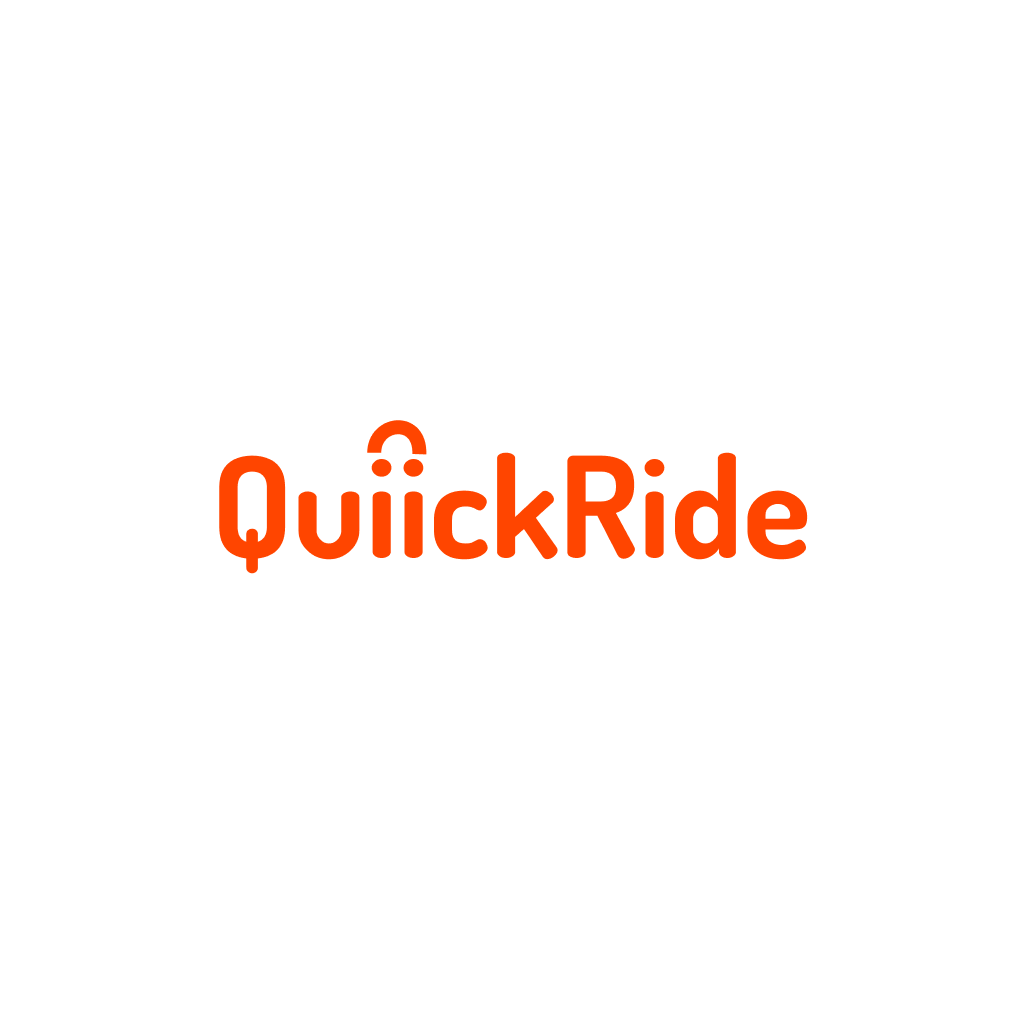
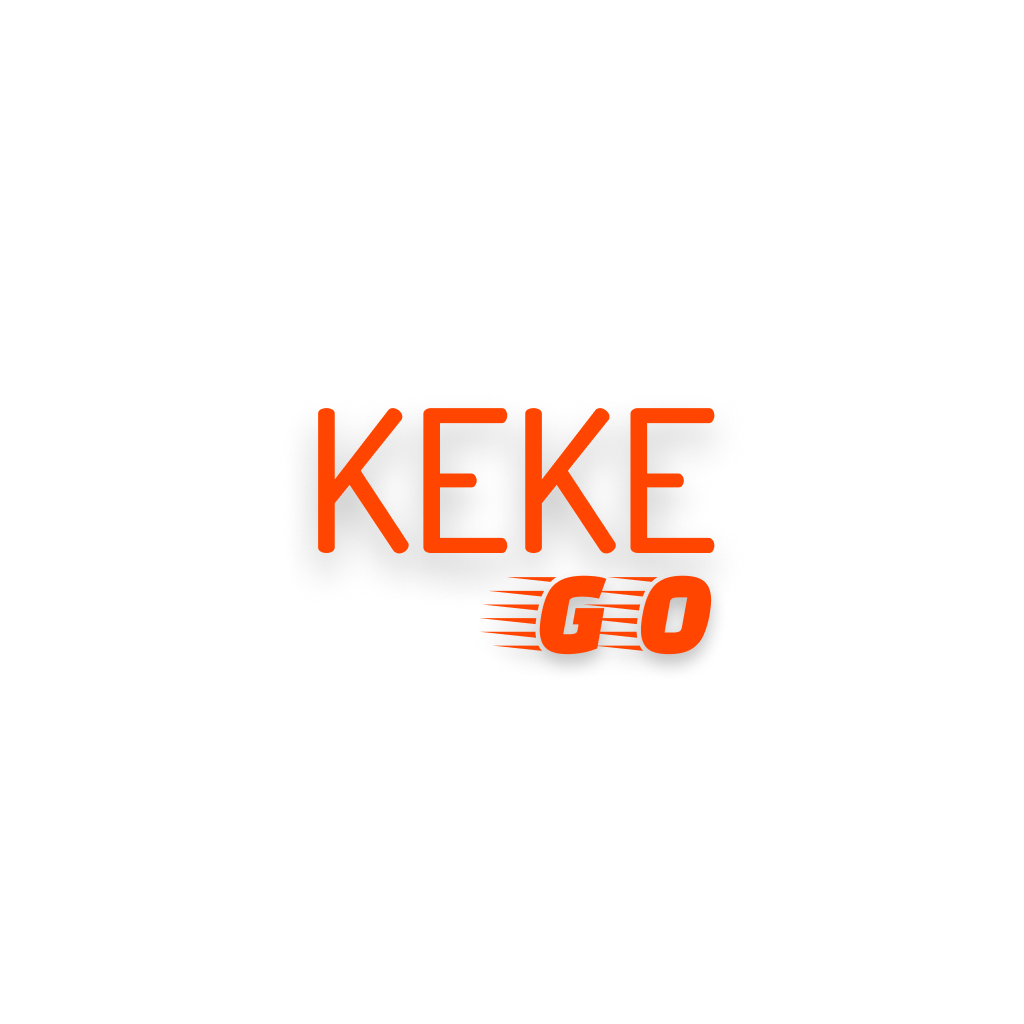
KEKE GO

Changed region(s): [[0.1875, 0.375, 0.8125, 0.6562]]

diff --git a/assets/svg/index.tsx b/assets/svg/index.tsx
@@ -179,21 +179,20 @@ export const OnboardingCoinIcon = ({ color }: { color?: string }) => (
 );
 
 export const LogoIcon = ({ color }: { color?: string }) => (
-  <Svg
-    width="100%"
-    height="100%"
-    viewBox="0 0 756 204" // Adjust this to match your SVG's original size
-    fill="none"
-  >
-    <Path
-      fill="#FF4500"
-      d="M50.742 197.771c-1.886 0-3.595-.648-5.127-1.945-1.533-1.179-2.299-3.005-2.299-5.48V179.03c-6.482-.707-12.317-2.533-17.503-5.48-5.186-2.947-9.252-7.249-12.2-12.907-2.946-5.657-4.42-12.906-4.42-21.746V89.923c0-10.019 1.828-17.975 5.482-23.868 3.771-5.893 8.78-10.136 15.028-12.73 6.247-2.71 13.26-4.066 21.039-4.066 7.78 0 14.792 1.356 21.039 4.067 6.365 2.593 11.374 6.836 15.028 12.73 3.654 5.892 5.48 13.849 5.48 23.867v48.974c0 8.84-1.472 16.089-4.42 21.746-2.946 5.658-7.012 9.96-12.198 12.907-5.187 2.947-11.08 4.773-17.68 5.48v11.316c0 2.475-.767 4.301-2.299 5.48-1.414 1.297-3.064 1.945-4.95 1.945Zm-7.426-39.78v-9.37c0-2.475.766-4.243 2.299-5.304 1.532-1.179 3.241-1.768 5.127-1.768 1.886 0 3.536.589 4.95 1.768 1.532 1.061 2.299 2.829 2.299 5.304v9.37c3.536-1.179 6.305-3.3 8.31-6.365 2.003-3.182 3.005-7.425 3.005-12.729V89.923c0-6.954-1.65-12.081-4.95-15.381-3.3-3.418-7.839-5.128-13.614-5.128-5.776 0-10.313 1.71-13.614 5.128-3.182 3.3-4.773 8.427-4.773 15.381v48.974c0 5.304.943 9.547 2.828 12.729 1.886 3.065 4.597 5.186 8.133 6.365Zm104.532 22.1c-7.072 0-13.555-1.65-19.448-4.95-5.775-3.418-10.432-7.838-13.968-13.26-3.418-5.54-5.127-11.434-5.127-17.68v-42.432c0-1.768 1.12-3.418 3.359-4.95 2.358-1.533 5.069-2.299 8.133-2.299 3.065 0 5.717.766 7.956 2.298 2.24 1.533 3.359 3.183 3.359 4.951v42.432c0 2.71.708 5.245 2.122 7.602s3.3 4.362 5.658 6.011c2.357 1.533 4.95 2.299 7.779 2.299 2.947 0 5.54-.766 7.779-2.299 2.358-1.532 4.243-3.536 5.658-6.011 1.414-2.475 2.121-5.009 2.121-7.602v-42.609c0-1.886 1.12-3.536 3.359-4.95 2.358-1.415 5.01-2.122 7.956-2.122 3.419 0 6.188.707 8.31 2.122 2.122 1.414 3.182 3.064 3.182 4.95v42.609c0 6.365-1.768 12.317-5.304 17.857-3.418 5.422-8.073 9.782-13.967 13.083-5.775 3.3-12.081 4.95-18.917 4.95Zm66.373-104.312c-3.418 0-6.365-1.12-8.84-3.359-2.476-2.357-3.713-4.95-3.713-7.78 0-3.064 1.237-5.657 3.713-7.778 2.475-2.24 5.422-3.36 8.84-3.36 3.536 0 6.483 1.12 8.84 3.36 2.358 2.121 3.536 4.714 3.536 7.779 0 2.829-1.178 5.422-3.536 7.779-2.357 2.24-5.304 3.36-8.84 3.36Zm0 102.721c-3.3 0-6.012-.766-8.133-2.298-2.122-1.533-3.183-3.241-3.183-5.128v-69.482c0-2.122 1.061-3.831 3.183-5.127 2.121-1.297 4.833-1.945 8.133-1.945 3.182 0 5.894.648 8.132 1.945 2.24 1.296 3.36 3.005 3.36 5.127v69.482c0 1.887-1.12 3.595-3.36 5.128-2.238 1.532-4.95 2.298-8.132 2.298ZM254.45 75.78c-3.418 0-6.365-1.12-8.84-3.36-2.475-2.357-3.713-4.95-3.713-7.78 0-3.064 1.238-5.657 3.713-7.778 2.475-2.24 5.422-3.36 8.84-3.36 3.536 0 6.482 1.12 8.84 3.36 2.357 2.121 3.536 4.714 3.536 7.779 0 2.829-1.179 5.422-3.536 7.779-2.358 2.24-5.304 3.36-8.84 3.36Zm0 102.72c-3.3 0-6.011-.766-8.133-2.298-2.121-1.533-3.182-3.241-3.182-5.128v-69.482c0-2.122 1.061-3.831 3.182-5.127 2.122-1.297 4.833-1.945 8.133-1.945 3.183 0 5.893.648 8.133 1.945 2.239 1.296 3.359 3.005 3.359 5.127v69.482c0 1.887-1.12 3.595-3.359 5.128-2.24 1.532-4.95 2.298-8.133 2.298Zm64.451 1.591c-8.958 0-16.266-1.591-21.924-4.773-5.657-3.183-9.842-7.485-12.552-12.907-2.712-5.539-4.067-11.727-4.067-18.564v-14.144c0-6.836 1.297-12.965 3.89-18.387 2.711-5.539 6.895-9.901 12.553-13.083 5.775-3.183 13.023-4.774 21.746-4.774 5.54 0 10.431.649 14.674 1.945 4.244 1.296 7.603 3.006 10.078 5.127 2.475 2.122 3.713 4.362 3.713 6.719 0 1.414-.413 3.005-1.238 4.773-.707 1.65-1.768 3.124-3.182 4.42-1.297 1.296-2.829 1.945-4.597 1.945-1.297 0-2.652-.412-4.066-1.238-1.297-.825-3.006-1.649-5.128-2.475-2.121-.825-4.95-1.237-8.486-1.237-6.011 0-10.372 1.473-13.083 4.42-2.712 2.828-4.067 6.777-4.067 11.845v14.144c0 5.069 1.355 9.076 4.067 12.023 2.711 2.828 7.131 4.243 13.26 4.243 3.653 0 6.482-.472 8.486-1.415 2.004-.942 3.654-1.826 4.951-2.652 1.414-.825 2.829-1.237 4.243-1.237 2.122 0 3.89.589 5.304 1.768 1.532 1.179 2.652 2.652 3.359 4.42.825 1.65 1.238 3.182 1.238 4.597 0 2.357-1.297 4.655-3.89 6.895-2.475 2.24-5.952 4.066-10.431 5.481-4.361 1.414-9.312 2.121-14.851 2.121Zm52.264-1.591c-3.182 0-5.834-.766-7.956-2.298-2.121-1.533-3.182-3.241-3.182-5.128V52.618c0-2.121 1.061-3.83 3.182-5.127 2.122-1.296 4.774-1.945 7.956-1.945 3.301 0 6.07.649 8.31 1.945 2.24 1.297 3.359 3.006 3.359 5.127v74.08l33.416-31.294c1.178-1.179 2.652-1.768 4.42-1.768 1.768 0 3.477.589 5.127 1.768 1.768 1.06 3.182 2.416 4.243 4.066 1.179 1.65 1.768 3.36 1.768 5.128 0 .707-.177 1.473-.531 2.298-.235.707-.707 1.356-1.414 1.945l-20.862 18.917 26.166 37.128c.825 1.297 1.238 2.534 1.238 3.713 0 1.768-.708 3.536-2.122 5.304a18.542 18.542 0 0 1-5.127 4.42c-2.004 1.061-3.948 1.591-5.834 1.591-2.358 0-4.244-1.002-5.658-3.005l-23.691-35.007-11.139 9.901v19.271c0 1.887-1.119 3.595-3.359 5.128-2.24 1.532-5.009 2.298-8.31 2.298Zm148.541.884c-1.531 0-3.064-.472-4.596-1.414-1.415-.943-2.534-2.299-3.36-4.067l-25.105-48.797h-14.851v45.968c0 2.476-1.179 4.362-3.536 5.658-2.357 1.179-5.009 1.768-7.956 1.768-2.829 0-5.481-.589-7.956-1.768-2.357-1.296-3.536-3.182-3.536-5.658V56.508c0-2.004.648-3.713 1.944-5.127 1.415-1.415 3.242-2.122 5.481-2.122h35.007c7.779 0 14.792 1.12 21.039 3.36 6.365 2.239 11.433 6.07 15.205 11.491 3.772 5.304 5.657 12.671 5.657 22.1 0 6.837-1.001 12.671-3.005 17.504-2.004 4.715-4.774 8.545-8.31 11.492-3.418 2.828-7.366 4.95-11.846 6.364l23.338 42.963c.236.472.413 1.002.53 1.591.119.472.177.884.177 1.238 0 1.886-.707 3.771-2.121 5.657-1.415 1.886-3.241 3.418-5.481 4.597-2.122 1.179-4.361 1.768-6.719 1.768Zm-47.912-72.311h19.448c5.775 0 10.372-1.415 13.79-4.243 3.419-2.829 5.127-7.662 5.127-14.498 0-7.072-1.708-11.963-5.127-14.674-3.418-2.83-8.015-4.244-13.79-4.244h-19.448v37.659Zm87.049-31.294c-3.418 0-6.365-1.12-8.84-3.359-2.475-2.357-3.713-4.95-3.713-7.78 0-3.064 1.238-5.657 3.713-7.778 2.475-2.24 5.422-3.36 8.84-3.36 3.536 0 6.483 1.12 8.84 3.36 2.357 2.121 3.536 4.714 3.536 7.779 0 2.829-1.179 5.422-3.536 7.779-2.357 2.24-5.304 3.36-8.84 3.36Zm0 102.721c-3.301 0-6.011-.766-8.133-2.298-2.121-1.533-3.182-3.241-3.182-5.128v-69.482c0-2.122 1.061-3.831 3.182-5.127 2.122-1.297 4.832-1.945 8.133-1.945 3.182 0 5.893.648 8.133 1.945 2.24 1.296 3.359 3.005 3.359 5.127v69.482c0 1.887-1.119 3.595-3.359 5.128-2.24 1.532-4.951 2.298-8.133 2.298Zm56.848 1.591c-5.54 0-10.667-1.709-15.382-5.127-4.715-3.418-8.486-7.897-11.315-13.437-2.829-5.539-4.243-11.433-4.243-17.68V129.35c0-6.601 1.414-12.612 4.243-18.034 2.829-5.422 6.6-9.724 11.315-12.906 4.715-3.301 9.96-4.95 15.736-4.95 5.539 0 10.254 1.414 14.144 4.242 3.889 2.711 6.777 5.776 8.663 9.194V52.618c0-2.121 1.119-3.83 3.359-5.127 2.24-1.296 5.009-1.945 8.31-1.945 3.182 0 5.834.649 7.956 1.945 2.121 1.297 3.182 3.006 3.182 5.127v118.456c0 1.887-1.061 3.595-3.182 5.128-2.122 1.532-4.774 2.298-7.956 2.298-2.829 0-5.246-.766-7.249-2.298-2.004-1.533-3.006-3.241-3.006-5.128v-4.95c-1.768 3.654-4.95 6.895-9.547 9.724-4.479 2.829-9.489 4.243-15.028 4.243Zm7.249-19.978c3.064 0 5.776-.826 8.133-2.475 2.357-1.768 4.243-3.655 5.657-5.658 1.415-2.122 2.122-3.771 2.122-4.95v-17.68c0-3.301-.826-6.13-2.475-8.487a15.817 15.817 0 0 0-6.012-5.481c-2.357-1.296-4.773-1.944-7.248-1.944-2.829 0-5.481.825-7.956 2.475-2.357 1.532-4.244 3.477-5.658 5.834a15.535 15.535 0 0 0-1.945 7.603v14.497c0 2.711.649 5.304 1.945 7.779a18.923 18.923 0 0 0 5.658 6.188c2.357 1.533 4.95 2.299 7.779 2.299Zm96.1 19.978c-8.368 0-15.794-1.473-22.277-4.42-6.365-3.064-11.374-7.307-15.028-12.729-3.653-5.54-5.481-11.905-5.481-19.095v-15.028c0-6.365 1.71-12.199 5.128-17.503 3.536-5.422 8.192-9.724 13.967-12.906 5.894-3.301 12.435-4.95 19.625-4.95 6.601 0 12.612 1.414 18.033 4.242 5.54 2.829 10.019 6.719 13.437 11.669 3.419 4.951 5.127 10.726 5.127 17.327 0 5.068-.824 8.721-2.475 10.961-1.65 2.122-3.772 3.478-6.365 4.067-2.475.471-5.068.707-7.779.707h-35.89v2.652c0 5.068 1.886 9.193 5.657 12.376 3.89 3.064 8.9 4.597 15.028 4.597 3.89 0 7.132-.589 9.724-1.768 2.593-1.179 4.833-2.299 6.718-3.36 1.887-1.06 3.655-1.591 5.305-1.591 1.768 0 3.3.589 4.596 1.768a12.108 12.108 0 0 1 3.006 4.243c.707 1.533 1.061 2.888 1.061 4.067 0 2.003-1.297 4.184-3.89 6.541-2.475 2.24-6.07 4.185-10.785 5.835-4.596 1.532-10.077 2.298-16.442 2.298Zm-19.978-51.095h25.812c2.005 0 3.36-.295 4.067-.884.825-.707 1.237-2.003 1.237-3.89 0-2.71-.766-5.127-2.298-7.248-1.415-2.122-3.3-3.772-5.658-4.951-2.239-1.179-4.773-1.768-7.602-1.768-2.711 0-5.245.589-7.602 1.768-2.358 1.061-4.302 2.652-5.835 4.774-1.414 2.003-2.121 4.42-2.121 7.249v4.95Z"
-    />
-    <Path
-      stroke="#FF4500"
-      strokeWidth={17}
-      d="M261.849 44.4c1.5-42.596-56.945-36.259-56.945-1.539"
-    />
+  <Svg viewBox="0 0 42 29" width="100%" height="100%" fill="none">
+    <G filter="url(#a)">
+      <Path
+        fill="#FF4500"
+        d="M4.14 18c-.17 0-.336-.04-.496-.12a.436.436 0 0 1-.222-.393V5.989c0-.17.074-.296.222-.376a1.097 1.097 0 0 1 .993 0c.148.08.222.205.222.376v5.663l4.603-5.954a.505.505 0 0 1 .427-.205c.126 0 .251.04.377.12.125.068.228.16.308.274.08.102.12.216.12.342a.793.793 0 0 1-.018.154.298.298 0 0 1-.085.154L7.1 10.9l4.054 6.159c.057.08.086.165.086.257 0 .125-.04.245-.12.359a.976.976 0 0 1-.308.257.844.844 0 0 1-.41.102.608.608 0 0 1-.514-.29l-3.747-5.63-1.283 1.591v3.782a.436.436 0 0 1-.222.393c-.149.08-.314.12-.496.12Zm9.021 0a.867.867 0 0 1-.444-.12.444.444 0 0 1-.206-.393V6.007c0-.172.069-.297.206-.377a.786.786 0 0 1 .444-.137h6.091c.183 0 .308.068.377.205a.838.838 0 0 1-.017.89.39.39 0 0 1-.36.205H13.95v4.346h2.668c.16 0 .28.063.36.188a.723.723 0 0 1 .017.821c-.069.126-.194.189-.377.189h-2.669V16.7h5.304c.16 0 .28.068.36.205.09.125.137.28.137.462 0 .148-.04.29-.12.428-.069.137-.194.205-.377.205h-6.09Zm8.857 0c-.17 0-.336-.04-.496-.12a.436.436 0 0 1-.222-.393V5.989c0-.17.074-.296.222-.376a1.097 1.097 0 0 1 .993 0c.148.08.222.205.222.376v5.663l4.603-5.954a.505.505 0 0 1 .427-.205c.126 0 .251.04.377.12a.89.89 0 0 1 .308.274c.08.102.12.216.12.342a.793.793 0 0 1-.018.154.298.298 0 0 1-.085.154l-3.49 4.363 4.054 6.159c.057.08.086.165.086.257 0 .125-.04.245-.12.359a.976.976 0 0 1-.308.257.844.844 0 0 1-.41.102.607.607 0 0 1-.514-.29l-3.747-5.63-1.283 1.591v3.782a.436.436 0 0 1-.222.393 1.03 1.03 0 0 1-.497.12Zm9.021 0a.867.867 0 0 1-.444-.12.444.444 0 0 1-.206-.393V6.007c0-.172.069-.297.206-.377a.786.786 0 0 1 .444-.137h6.091c.183 0 .308.068.377.205a.838.838 0 0 1-.017.89.39.39 0 0 1-.36.205h-5.304v4.346h2.67c.16 0 .279.063.359.188a.722.722 0 0 1 .017.821c-.069.126-.194.189-.377.189h-2.668V16.7h5.303c.16 0 .28.068.36.205.09.125.137.28.137.462 0 .148-.04.29-.12.428-.069.137-.194.205-.377.205h-6.09Z"
+      />
+    </G>
+    <G filter="url(#b)">
+      <Path
+        fill="#FF4500"
+        d="M24.974 26.289c-.893 0-1.519-.172-1.879-.516-.36-.352-.54-.876-.54-1.572 0-.188.012-.389.037-.601.024-.221.057-.455.098-.7.13-.753.323-1.38.577-1.88.254-.498.626-.871 1.117-1.117.492-.253 1.159-.38 2.002-.38.18 0 .393.008.639.024a6.5 6.5 0 0 1 .724.086c.238.041.422.094.553.16l-.627 1.707a7.154 7.154 0 0 0-1.461-.172c-.352 0-.618.029-.798.086-.18.049-.287.16-.32.331l-.515 2.825h.565c.172 0 .319-.02.442-.062.123-.04.2-.143.233-.307l.086-.479h-.503l.245-1.4h2.48l-.613 3.476c-.45.18-.9.307-1.351.38-.45.074-.847.111-1.191.111Zm-1.486-6.238-3.77-.405h4.273c-.196.114-.364.25-.503.405Zm-.774 1.265-4.641-.492h4.85c-.033.082-.07.164-.11.246a3.845 3.845 0 0 0-.099.246Zm-.331 1.203-4.802-.516h4.912l-.11.516Zm-.184 1.179-4.839-.516h4.9c-.008.09-.02.18-.037.27l-.024.246Zm.036 1.179-4.826-.516h4.777c0 .09.004.18.013.27.016.082.028.164.036.246Zm.528 1.13-4.285-.455h3.966c.041.082.086.164.135.246.058.073.119.143.184.209Zm10.933.282c-.892 0-1.518-.172-1.879-.516-.352-.352-.528-.876-.528-1.572 0-.188.012-.393.037-.614.025-.22.057-.45.098-.687.131-.753.324-1.38.578-1.88.253-.498.61-.871 1.068-1.117.458-.253 1.064-.38 1.817-.38.9 0 1.535.176 1.904.528.368.344.552.868.552 1.572 0 .18-.012.38-.037.601-.024.213-.057.438-.098.676-.13.745-.323 1.371-.577 1.879-.254.499-.614.875-1.08 1.13-.467.253-1.085.38-1.855.38Zm-1.474-6.238-3.77-.405h4.274c-.197.114-.364.25-.504.405Zm-.773 1.265-4.642-.492h4.85c-.032.082-.069.164-.11.246a3.848 3.848 0 0 0-.098.246Zm1.879 3.106h.724c.213 0 .385-.024.516-.073.14-.05.225-.18.258-.393l.466-2.567h-.749c-.196 0-.364.025-.503.074-.14.05-.225.176-.258.38l-.454 2.58Zm-2.21-1.903-4.802-.516h4.912l-.11.516Zm-.185 1.179-4.838-.516h4.9c-.009.09-.021.18-.037.27l-.025.246Zm.037 1.179-4.826-.516h4.777c0 .09.004.18.012.27.017.082.029.164.037.246Zm.528 1.13-4.286-.455h3.967c.04.082.086.164.135.246.057.073.119.143.184.209Z"
+      />
+    </G>
+    <Defs></Defs>
   </Svg>
 );
 
@@ -369,20 +368,6 @@ export const RatingStarIcon = ({ color }: { color?: string }) => (
     <Path
       fill={color ? color : "#FF4500"}
       d="m6 0 1.347 3.8h4.36L8.18 6.15l1.347 3.8L6 7.6 2.473 9.95l1.347-3.8L.294 3.8h4.359L6 0Z"
-    />
-  </Svg>
-);
-
-export const LogoLargeIcon = () => (
-  <Svg width={214} height={63} fill="none">
-    <Path
-      fill="#FF4500"
-      d="M14.293 56.428c-.532 0-1.013-.182-1.445-.548-.431-.332-.647-.846-.647-1.543v-3.188c-1.826-.199-3.47-.713-4.93-1.543-1.461-.83-2.606-2.042-3.436-3.636-.83-1.593-1.245-3.635-1.245-6.125V26.05c0-2.822.514-5.063 1.543-6.723 1.063-1.66 2.474-2.855 4.233-3.585 1.76-.764 3.735-1.146 5.927-1.146 2.19 0 4.166.382 5.926 1.146 1.793.73 3.204 1.925 4.233 3.585 1.029 1.66 1.544 3.901 1.544 6.723v13.795c0 2.49-.415 4.532-1.245 6.125-.83 1.594-1.976 2.806-3.437 3.636-1.46.83-3.12 1.344-4.98 1.543v3.188c0 .697-.215 1.211-.647 1.543a1.999 1.999 0 0 1-1.394.548ZM12.2 45.223v-2.64c0-.696.216-1.194.647-1.493a2.311 2.311 0 0 1 1.445-.498c.53 0 .996.166 1.394.498.432.299.647.797.647 1.494v2.64a4.363 4.363 0 0 0 2.341-1.794c.564-.896.847-2.091.847-3.585V26.05c0-1.959-.465-3.403-1.395-4.332-.93-.963-2.208-1.445-3.834-1.445-1.627 0-2.905.482-3.835 1.445-.896.93-1.345 2.373-1.345 4.332v13.795c0 1.494.266 2.689.797 3.585.531.864 1.295 1.461 2.291 1.793Zm29.444 6.225c-1.992 0-3.818-.465-5.478-1.394-1.627-.963-2.938-2.208-3.934-3.735-.963-1.56-1.444-3.22-1.444-4.98V29.387c0-.498.315-.963.946-1.395.664-.431 1.427-.647 2.29-.647.864 0 1.61.216 2.242.647.63.432.946.897.946 1.395v11.952c0 .763.199 1.477.597 2.141.399.664.93 1.229 1.594 1.693a3.938 3.938 0 0 0 2.191.648c.83 0 1.56-.216 2.191-.648a4.87 4.87 0 0 0 1.594-1.693c.398-.697.597-1.41.597-2.141V29.337c0-.531.316-.996.947-1.394.664-.399 1.41-.598 2.24-.598.963 0 1.744.2 2.341.598.598.398.897.863.897 1.394v12.002c0 1.793-.498 3.47-1.494 5.03-.963 1.527-2.275 2.755-3.934 3.685-1.627.93-3.403 1.394-5.33 1.394ZM60.34 22.066c-.962 0-1.792-.315-2.49-.946-.697-.664-1.045-1.394-1.045-2.191 0-.863.348-1.594 1.045-2.191.698-.631 1.528-.947 2.49-.947.996 0 1.826.316 2.49.947.665.597.997 1.328.997 2.19 0 .798-.332 1.528-.996 2.192-.665.63-1.495.946-2.49.946Zm0 28.934c-.93 0-1.693-.216-2.29-.647-.598-.432-.897-.913-.897-1.445V29.337c0-.598.3-1.079.897-1.444s1.36-.548 2.29-.548c.897 0 1.66.183 2.291.548.631.365.947.846.947 1.444v19.571c0 .532-.316 1.013-.947 1.445-.63.431-1.394.647-2.29.647Zm11.332-28.934c-.963 0-1.793-.315-2.49-.946-.697-.664-1.046-1.394-1.046-2.191 0-.863.349-1.594 1.046-2.191.697-.631 1.527-.947 2.49-.947.996 0 1.826.316 2.49.947.664.597.996 1.328.996 2.19 0 .798-.332 1.528-.996 2.192-.664.63-1.494.946-2.49.946Zm0 28.934c-.93 0-1.693-.216-2.29-.647-.599-.432-.897-.913-.897-1.445V29.337c0-.598.299-1.079.896-1.444.598-.365 1.361-.548 2.29-.548.897 0 1.66.183 2.292.548.63.365.946.846.946 1.444v19.571c0 .532-.316 1.013-.946 1.445-.631.431-1.395.647-2.291.647Zm18.154.448c-2.523 0-4.582-.448-6.175-1.344-1.594-.897-2.772-2.109-3.536-3.636-.764-1.56-1.145-3.303-1.145-5.229v-3.984c0-1.925.365-3.652 1.095-5.179.764-1.56 1.942-2.789 3.536-3.685 1.627-.897 3.669-1.345 6.125-1.345 1.56 0 2.939.183 4.134.548 1.195.365 2.141.847 2.838 1.444.698.598 1.046 1.229 1.046 1.893 0 .398-.116.846-.348 1.344-.2.465-.498.88-.897 1.245a1.77 1.77 0 0 1-1.295.548c-.365 0-.747-.116-1.145-.349-.365-.232-.847-.464-1.444-.697-.598-.232-1.395-.348-2.39-.348-1.694 0-2.922.415-3.686 1.245-.763.796-1.145 1.909-1.145 3.336v3.984c0 1.428.382 2.557 1.145 3.387.764.796 2.009 1.195 3.735 1.195 1.03 0 1.826-.133 2.39-.399.565-.265 1.03-.514 1.395-.747.398-.232.797-.348 1.195-.348.598 0 1.096.166 1.494.498.432.332.747.747.946 1.245.233.465.349.896.349 1.295 0 .664-.365 1.311-1.096 1.942-.697.63-1.676 1.145-2.938 1.544-1.228.398-2.623.597-4.183.597ZM104.548 51c-.897 0-1.644-.216-2.241-.647-.598-.432-.897-.913-.897-1.445V15.542c0-.597.299-1.079.897-1.444.597-.365 1.344-.548 2.241-.548.929 0 1.71.183 2.34.548.631.365.947.847.947 1.444V36.41l9.412-8.815c.332-.332.747-.498 1.245-.498.498 0 .979.166 1.444.498.498.299.896.68 1.195 1.145.332.465.498.947.498 1.445 0 .199-.05.415-.149.647-.067.2-.199.382-.399.548l-5.876 5.328 7.37 10.458c.233.366.349.714.349 1.046 0 .498-.199.996-.598 1.494a5.205 5.205 0 0 1-1.444 1.245c-.564.299-1.112.448-1.643.448-.664 0-1.195-.282-1.594-.846l-6.673-9.86-3.137 2.788v5.428c0 .532-.316 1.013-.947 1.445-.63.431-1.411.647-2.34.647Zm41.84.249c-.432 0-.863-.133-1.295-.398-.398-.266-.714-.648-.946-1.146l-7.072-13.745h-4.183v12.948c0 .698-.332 1.229-.996 1.594-.664.332-1.411.498-2.241.498a5.145 5.145 0 0 1-2.241-.498c-.664-.365-.996-.896-.996-1.594v-32.27c0-.564.183-1.046.548-1.444.398-.399.913-.598 1.544-.598h9.86c2.191 0 4.167.316 5.926.946 1.793.631 3.221 1.71 4.283 3.237 1.062 1.494 1.594 3.57 1.594 6.225 0 1.926-.283 3.57-.847 4.93-.564 1.329-1.345 2.408-2.341 3.238a9.798 9.798 0 0 1-3.336 1.792l6.573 12.102c.067.133.117.282.15.448.033.133.05.249.05.349 0 .53-.2 1.062-.598 1.593a4.532 4.532 0 0 1-1.544 1.295 3.837 3.837 0 0 1-1.892.498Zm-13.496-20.368h5.478c1.627 0 2.922-.399 3.884-1.195.963-.797 1.445-2.158 1.445-4.084 0-1.992-.482-3.37-1.445-4.133-.962-.797-2.257-1.196-3.884-1.196h-5.478v10.608Zm24.52-8.815c-.963 0-1.793-.315-2.49-.946-.698-.664-1.046-1.394-1.046-2.191 0-.863.348-1.594 1.046-2.191.697-.631 1.527-.947 2.49-.947.996 0 1.826.316 2.49.947.664.597.996 1.328.996 2.19 0 .798-.332 1.528-.996 2.192-.664.63-1.494.946-2.49.946Zm0 28.934c-.93 0-1.694-.216-2.291-.647-.598-.432-.897-.913-.897-1.445V29.337c0-.598.299-1.079.897-1.444.597-.365 1.361-.548 2.291-.548.896 0 1.66.183 2.29.548.631.365.947.846.947 1.444v19.571c0 .532-.316 1.013-.947 1.445-.63.431-1.394.647-2.29.647Zm16.012.448c-1.56 0-3.004-.481-4.332-1.444-1.328-.963-2.391-2.224-3.188-3.785a10.81 10.81 0 0 1-1.195-4.98v-4.083c0-1.86.399-3.553 1.195-5.08.797-1.527 1.86-2.739 3.188-3.635a7.552 7.552 0 0 1 4.432-1.395c1.56 0 2.888.399 3.984 1.195 1.095.764 1.909 1.627 2.44 2.59V15.542c0-.597.315-1.079.946-1.444s1.411-.548 2.341-.548c.896 0 1.643.183 2.241.548.597.365.896.847.896 1.444v33.366c0 .532-.299 1.013-.896 1.445-.598.431-1.345.647-2.241.647-.797 0-1.478-.216-2.042-.647-.564-.432-.847-.913-.847-1.445v-1.394c-.498 1.03-1.394 1.942-2.689 2.739-1.261.797-2.672 1.195-4.233 1.195Zm2.042-5.627c.863 0 1.627-.233 2.291-.697.664-.498 1.195-1.03 1.593-1.594.399-.598.598-1.062.598-1.394v-4.98c0-.93-.232-1.727-.697-2.39a4.457 4.457 0 0 0-1.693-1.545c-.664-.365-1.345-.547-2.042-.547-.797 0-1.544.232-2.241.697a5.03 5.03 0 0 0-1.594 1.643 4.376 4.376 0 0 0-.548 2.142v4.083c0 .764.183 1.494.548 2.191.399.698.93 1.279 1.594 1.743a3.937 3.937 0 0 0 2.191.648Zm27.069 5.627c-2.357 0-4.449-.415-6.275-1.245-1.793-.863-3.204-2.058-4.233-3.585-1.029-1.56-1.544-3.354-1.544-5.379v-4.233c0-1.793.482-3.436 1.445-4.93a10.895 10.895 0 0 1 3.934-3.635c1.66-.93 3.502-1.395 5.528-1.395 1.859 0 3.552.399 5.079 1.195 1.561.797 2.822 1.893 3.785 3.287.963 1.395 1.444 3.021 1.444 4.88 0 1.428-.232 2.457-.697 3.088a3.072 3.072 0 0 1-1.793 1.146c-.697.132-1.427.199-2.191.199h-10.109v.747c0 1.427.531 2.59 1.593 3.486 1.096.863 2.507 1.295 4.233 1.295 1.096 0 2.009-.166 2.739-.498a25.08 25.08 0 0 0 1.893-.947c.531-.298 1.029-.448 1.494-.448.498 0 .929.166 1.294.498.366.332.648.73.847 1.195.199.432.299.814.299 1.146 0 .564-.365 1.178-1.096 1.842-.697.631-1.71 1.179-3.038 1.644-1.294.431-2.838.647-4.631.647Zm-5.627-14.392h7.27c.565 0 .947-.083 1.146-.249.232-.2.348-.564.348-1.096 0-.763-.215-1.444-.647-2.041a4.056 4.056 0 0 0-1.594-1.395c-.63-.332-1.344-.498-2.141-.498a4.72 4.72 0 0 0-2.141.498 4.047 4.047 0 0 0-1.644 1.345c-.398.564-.597 1.245-.597 2.042v1.394Z"
-    />
-    <Path
-      stroke="#FF4500"
-      strokeWidth={4}
-      d="M74.073 14.308C74.497.58 57.964 2.623 57.964 13.812"
     />
   </Svg>
 );

diff --git a/app/(tabs)/index.tsx b/app/(tabs)/index.tsx
@@ -1,12 +1,10 @@
 import BottomSheet, { BottomSheetView } from "@gorhom/bottom-sheet";
 import React, { useEffect, useMemo, useRef } from "react";
-import { ActivityIndicator, Keyboard, View } from "react-native";
+import { Keyboard, View } from "react-native";
 import MapView, { PROVIDER_GOOGLE } from "react-native-maps";
-import Animated, { FadeIn, FadeOut } from "react-native-reanimated";
+import Animated, { FadeIn } from "react-native-reanimated";
 import { Socket } from "socket.io-client";
 
-import CustomText from "@/components/common/CustomText";
-import { COLORS } from "@/constants/Colors";
 import { CONFIG } from "@/constants/home";
 import { homeStyles } from "@/styles/home-styles";
 
@@ -26,12 +24,13 @@ import { useLocation } from "@/hooks/home/useLocation";
 import { useMapRegionManager } from "@/hooks/home/useMapRegionManager";
 import { useSocket } from "@/hooks/home/useSocket";
 import { useAppStore } from "@/stores/useAppStore";
+import HideKeyboardOnTouch from "@/utility/HideKeyboardOnTouch";
 
 const HomeScreen = () => {
   const rideState = useAppStore((state) => state.rideState);
   const userLocation = useAppStore((state) => state.userLocation);
   const { setMapLoading, setActiveRide } = useAppStore();
-  const { mapLoading, stage, driver } = rideState;
+  const { stage, driver } = rideState;
 
   const mapRef = useRef<MapView>(null);
   const bottomSheetRef = useRef<BottomSheet>(null);
@@ -42,7 +41,7 @@ const HomeScreen = () => {
   const setSocketRef = useAppStore((state) => state.setSocketRef);
 
   const { geocodingLoading } = useLocation();
-  const snapPoints = useMemo(() => ["55%", "70%", "80%", "90%"], []);
+  const snapPoints = useMemo(() => ["55%", "70%", "85%", "90%"], []);
 
   useMapRegionManager(mapRef);
   useSocket();
@@ -78,19 +77,8 @@ const HomeScreen = () => {
   }, []);
 
   return (
-    <View style={homeStyles.container}>
-      {mapLoading ? (
-        <Animated.View
-          entering={FadeIn}
-          exiting={FadeOut}
-          style={homeStyles.loadingContainer}
-        >
-          <ActivityIndicator size="large" color={COLORS.primary} />
-          <CustomText fontWeight="Medium" style={homeStyles.loadingText}>
-            Loading your map...
-          </CustomText>
-        </Animated.View>
-      ) : (
+    <HideKeyboardOnTouch>
+      <View style={homeStyles.container}>
         <MapView
           ref={mapRef}
           showsMyLocationButton={false}
@@ -111,50 +99,50 @@ const HomeScreen = () => {
         >
           <MapContent />
         </MapView>
-      )}
 
-      <Animated.View
-        entering={FadeIn.delay(200)}
-        style={homeStyles.buttonContainer}
-      >
-        <MapControls geocodingLoading={geocodingLoading} />
-      </Animated.View>
+        <Animated.View
+          entering={FadeIn.delay(200)}
+          style={homeStyles.buttonContainer}
+        >
+          <MapControls geocodingLoading={geocodingLoading} />
+        </Animated.View>
 
-      <BottomSheet
-        ref={bottomSheetRef}
-        index={0}
-        snapPoints={snapPoints}
-        backgroundStyle={homeStyles.bottomSheetBackground}
-        handleIndicatorStyle={homeStyles.bottomSheetHandle}
-        enablePanDownToClose={false}
-        enableDynamicSizing
-        style={homeStyles.bottomSheet}
-        keyboardBehavior="extend"
-        animateOnMount
-      >
-        <BottomSheetView style={homeStyles.bottomSheetContent}>
-          {stage === "initial" && <InitialStage />}
+        <BottomSheet
+          ref={bottomSheetRef}
+          index={0}
+          snapPoints={snapPoints}
+          backgroundStyle={homeStyles.bottomSheetBackground}
+          handleIndicatorStyle={homeStyles.bottomSheetHandle}
+          enablePanDownToClose={false}
+          enableDynamicSizing
+          style={homeStyles.bottomSheet}
+          keyboardBehavior="extend"
+          animateOnMount
+        >
+          <BottomSheetView style={homeStyles.bottomSheetContent}>
+            {stage === "initial" && <InitialStage />}
 
-          {stage === "input" && (
-            <InputStage geocodingLoading={geocodingLoading} />
-          )}
+            {stage === "input" && (
+              <InputStage geocodingLoading={geocodingLoading} />
+            )}
 
-          {stage === "confirm" && <ConfirmStage />}
+            {stage === "confirm" && <ConfirmStage />}
 
-          {stage === "search" && (
-            <SearchStage geocodingLoading={geocodingLoading} />
-          )}
+            {stage === "search" && (
+              <SearchStage geocodingLoading={geocodingLoading} />
+            )}
 
-          {(stage === "paired" || stage === "arrived") && driver && (
-            <PairedArrivedStage />
-          )}
+            {(stage === "paired" || stage === "arrived") && driver && (
+              <PairedArrivedStage />
+            )}
 
-          {stage === "trip" && driver && (
-            <TripStage geocodingLoading={geocodingLoading} />
-          )}
-        </BottomSheetView>
-      </BottomSheet>
-    </View>
+            {stage === "trip" && driver && (
+              <TripStage geocodingLoading={geocodingLoading} />
+            )}
+          </BottomSheetView>
+        </BottomSheet>
+      </View>
+    </HideKeyboardOnTouch>
   );
 };
 

diff --git a/components/feature/home/LocationInput.tsx b/components/feature/home/LocationInput.tsx
@@ -2,6 +2,7 @@ import CustomInput from "@/components/common/CustomInput";
 import CustomText from "@/components/common/CustomText";
 import { COLORS } from "@/constants/Colors";
 import { scale, scaleText } from "@/constants/Layout";
+import { useAppStore } from "@/stores/useAppStore";
 import { Ionicons } from "@expo/vector-icons";
 import * as Location from "expo-location";
 import { debounce } from "lodash";
@@ -61,8 +62,9 @@ export default function LocationInput({
     error: "",
     loading: false,
   });
+  const bottomSheetRef = useAppStore((state) => state.bottomSheetRef);
 
-  const { pickup, destination, error, loading } = state;
+  const { loading } = state;
   const abortControllerRef = useRef<AbortController | null>(null);
   const inputRef = useRef<{ pickup: string; destination: string }>({
     pickup: initialPickup,
@@ -311,6 +313,7 @@ export default function LocationInput({
             onSubmitEditing={() =>
               handleLocationSelect(type, state[type].input)
             }
+            onPress={() => bottomSheetRef?.current?.snapToIndex(3)}
             onFocus={() =>
               setState((prev) => ({
                 ...prev,
@@ -322,12 +325,12 @@ export default function LocationInput({
             prefix={
               type === "pickup" ? (
                 <TouchableOpacity
-                  activeOpacity={0.7}
+                  activeOpacity={0.5}
                   style={styles.locationButton}
                   onPress={handleCurrentLocation}
                   accessibilityLabel="Use current location"
                 >
-                  <Ionicons name="locate" size={20} color={COLORS.primary} />
+                  <Ionicons name="locate" size={25} color={COLORS.primary} />
                 </TouchableOpacity>
               ) : undefined
             }

diff --git a/constants/home.ts b/constants/home.ts
@@ -1,9 +1,9 @@
 export const CONFIG = {
   GOOGLE_MAPS_API_KEY: process.env.EXPO_PUBLIC_GOOGLE_MAPS_API_KEY || "",
-  DEFAULT_COORDS: { latitude: "6.5244", longitude: "3.3792" },
+  DEFAULT_COORDS: { latitude: "10.5105", longitude: "7.4165" },
   INITIAL_REGION: {
-    latitude: 6.5244,
-    longitude: 3.3792,
+    latitude: 10.5105,
+    longitude: 7.4165,
     latitudeDelta: 0.0922,
     longitudeDelta: 0.0421,
   },
@@ -19,18 +19,13 @@ export const CONFIG = {
   RECENT_DESTINATIONS: [
     {
       id: "1",
-      address: "Lekki Phase 1, Lagos",
-      coords: { latitude: "6.4412", longitude: "3.4584" },
-    },
-    {
-      id: "2",
-      address: "Ikeja City Mall, Lagos",
-      coords: { latitude: "6.6148", longitude: "3.3576" },
+      address: "Kaduna City Center",
+      coords: { latitude: "10.5105", longitude: "7.4165" },
     },
     {
       id: "3",
-      address: "Victoria Island, Lagos",
-      coords: { latitude: "6.4299", longitude: "3.4219" },
+      address: "Murtala Square, Kaduna",
+      coords: { latitude: "10.5189", longitude: "7.4386" },
     },
   ],
 } as const;

diff --git a/app/(auth)/otp.tsx b/app/(auth)/otp.tsx
@@ -90,17 +90,7 @@ export default function OTPScreen() {
         if (isRegistered === "true" && data.data.token) {
           // User is registered, store token and user, then navigate to tabs
           await Storage.set("access_token", data.data.token);
-          await setUser(
-            {
-              id: data.data.user.id,
-              phone: data.data.user.phone,
-              role: data.data.user.role,
-              name: data.data.user.name,
-              email: data.data.user.email,
-              gender: data.data.user.gender,
-            },
-            data.data.token
-          );
+          await setUser(data.data.user, data.data.token);
           router.push("/(tabs)");
         } else {
           // User is not registered, navigate to registration

diff --git a/components/feature/home/stages/InitialStage.tsx b/components/feature/home/stages/InitialStage.tsx
@@ -13,7 +13,7 @@ const InitialStage = () => {
 
   const handleWhereTo = useCallback(() => {
     setRideStage("input");
-    bottomSheetRef?.current?.snapToIndex(1);
+    bottomSheetRef?.current?.snapToIndex(3);
   }, [setRideStage, bottomSheetRef]);
 
   const handleSelectRecentDestination = useCallback(
@@ -40,7 +40,7 @@ const InitialStage = () => {
         </CustomText>
       </TouchableOpacity>
       <CustomText fontWeight="Medium" style={homeStyles.sectionSubTitle}>
-        Recent Destinations
+        Popular Destinations
       </CustomText>
       <FlatList
         data={CONFIG.RECENT_DESTINATIONS}

diff --git a/components/common/Header.tsx b/components/common/Header.tsx
@@ -1,4 +1,4 @@
-import { LogoIcon } from "@/assets/svg";
+// import { LogoIcon } from "@/assets/svg";
 import { scale } from "@/constants/Layout";
 import React from "react";
 import { View } from "react-native";
@@ -27,7 +27,7 @@ const Header = ({
       <View
         style={{ marginLeft: "auto", width: scale(100), height: scale(100) }}
       >
-        <LogoIcon />
+        {/* <LogoIcon /> */}
       </View>
     </View>
   );
